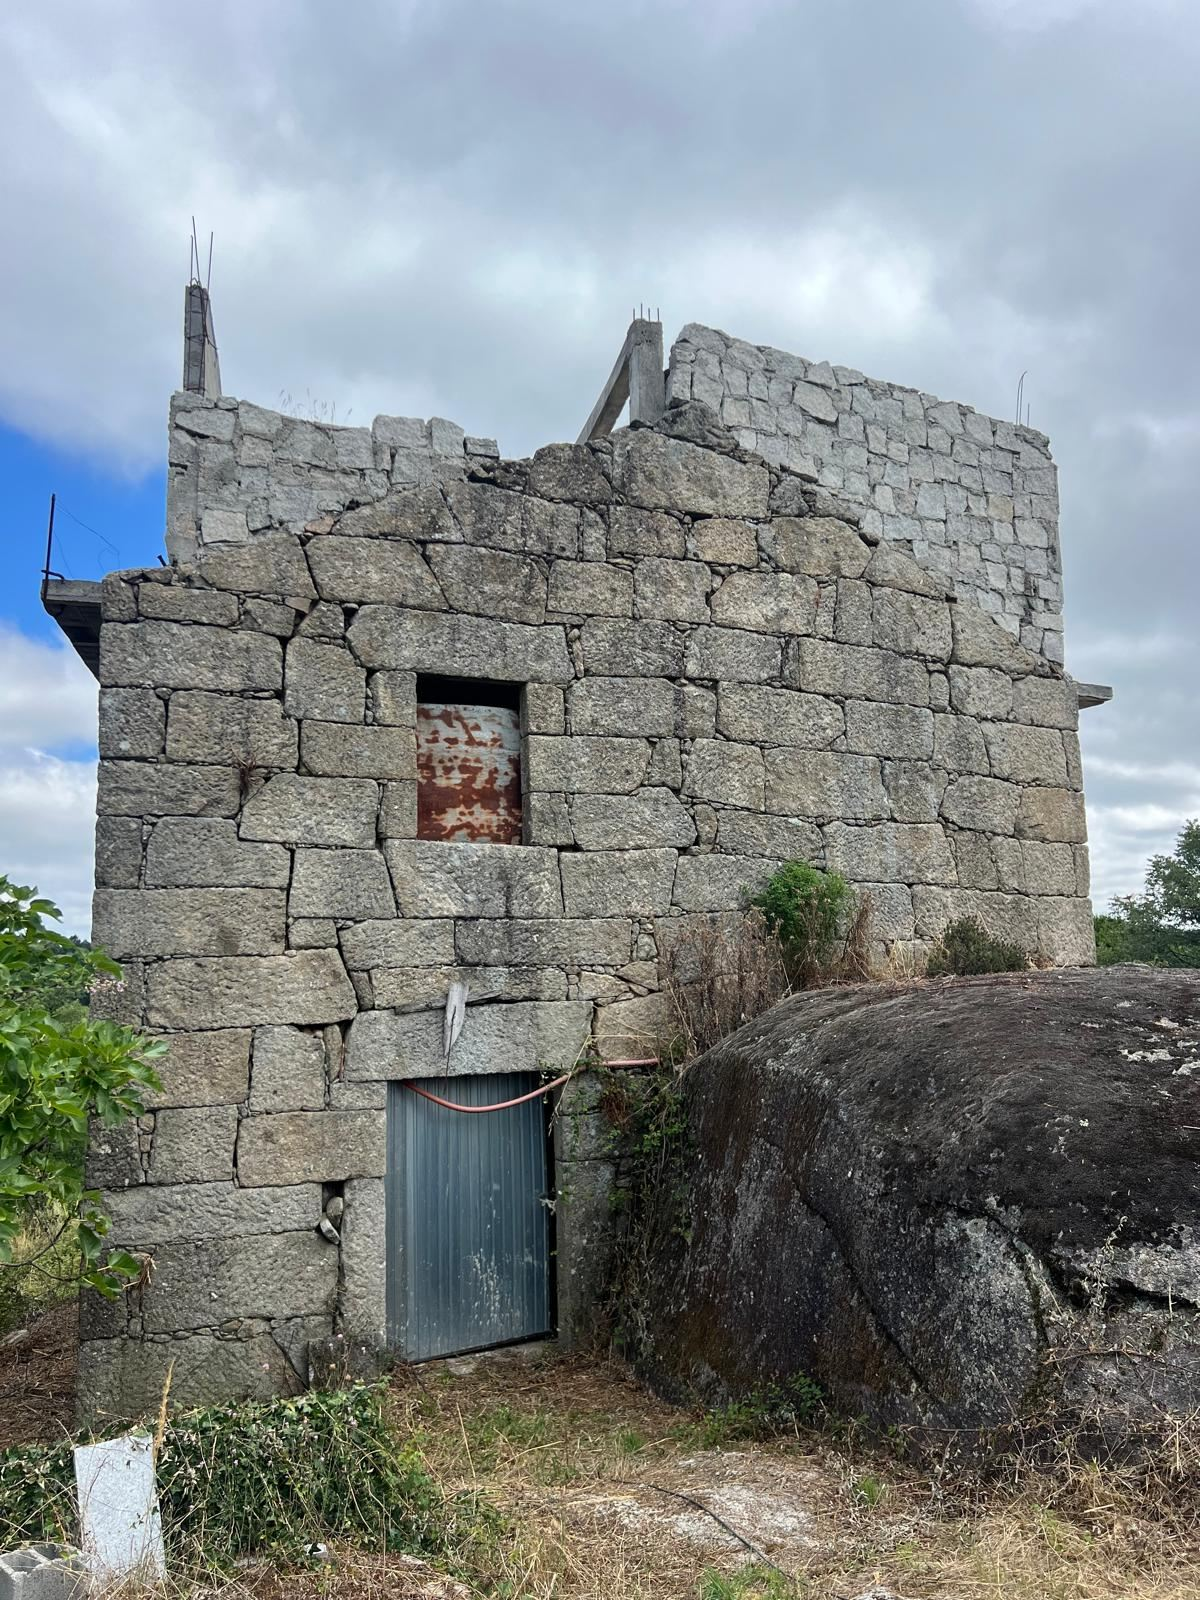
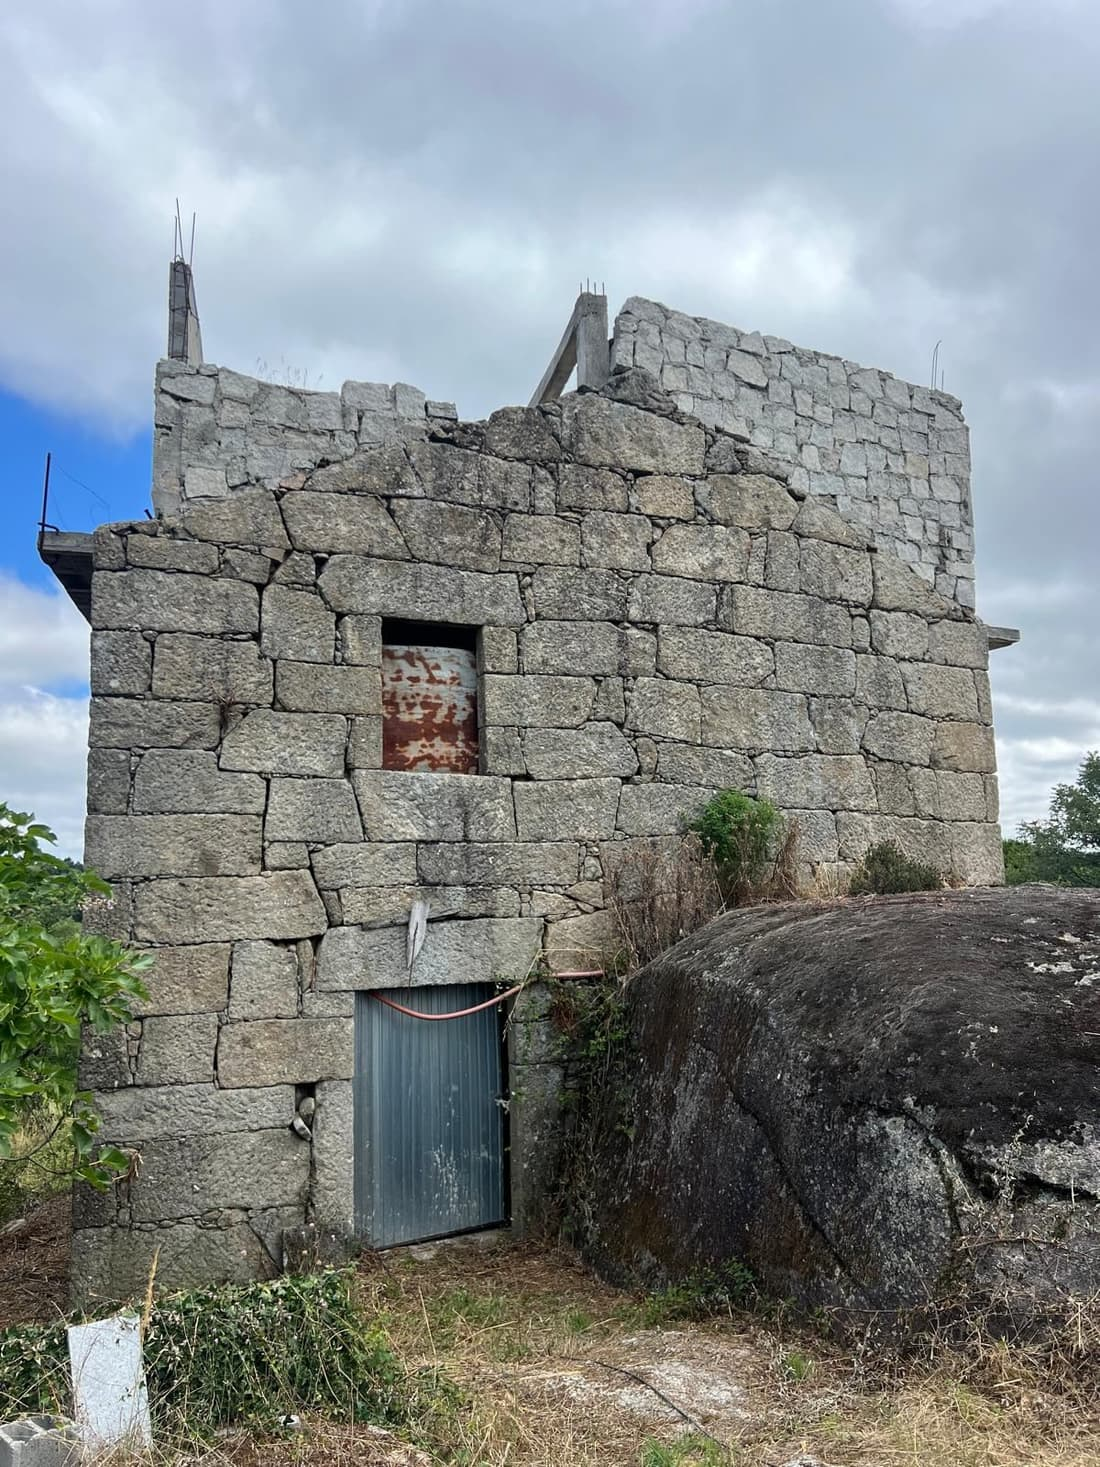
v10: technical SEO (title, description, link preview, structured data, sitemap, robots, lighter images)

diff --git a/index.html b/index.html
@@ -3,9 +3,24 @@
 <head>
 <meta charset="utf-8">
 <meta name="viewport" content="width=device-width, initial-scale=1">
-<title>The Made Real Blueprint · An 8-step course | The Life You Choose</title>
-<meta name="description" content="The Made Real Blueprint: an 8-step course for building a new life in Portugal, from the picture of a different life to a real one. Decide how you want to spend your time, and finish with your own blueprint. Founding member offer for the first 12 people. Two lives, built from the ground up: Bali, then Portugal.">
+<title>Choose it, build it, live it · The Made Real Blueprint</title>
+<meta name="description" content="Want a different life? Make a real change at home, or build a new one in Portugal or abroad. An 8-step course by Mwata, who built a new life abroad twice.">
 <link rel="icon" href="images/mark.svg" type="image/svg+xml">
+<link rel="canonical" href="https://maderealblueprint.com/">
+<link rel="apple-touch-icon" href="images/apple-touch-icon.png">
+<meta name="theme-color" content="#2C3B2F">
+<meta property="og:type" content="website">
+<meta property="og:site_name" content="The Life You Choose">
+<meta property="og:url" content="https://maderealblueprint.com/">
+<meta property="og:title" content="Choose it, build it, live it · The Made Real Blueprint">
+<meta property="og:description" content="An 8-step blueprint built from the experiences of someone who built a chosen life.">
+<meta property="og:image" content="https://maderealblueprint.com/images/og-image.jpg">
+<meta property="og:image:width" content="1200">
+<meta property="og:image:height" content="630">
+<meta property="og:image:alt" content="Raised vegetable beds on Mwata's land in Portugal, next to the title: Choose, build and live the life you want.">
+<meta property="og:locale" content="en_GB">
+<meta name="twitter:card" content="summary_large_image">
+<script type="application/ld+json">{"@context":"https://schema.org","@graph":[{"@type":"WebSite","@id":"https://maderealblueprint.com/#website","url":"https://maderealblueprint.com/","name":"The Made Real Blueprint","alternateName":"The Life You Choose","inLanguage":"en","publisher":{"@id":"https://maderealblueprint.com/#org"}},{"@type":"Organization","@id":"https://maderealblueprint.com/#org","name":"The Life You Choose","legalName":"Belgrave Management, Unipessoal Lda","url":"https://maderealblueprint.com/","logo":{"@type":"ImageObject","url":"https://maderealblueprint.com/images/logo-512.png","width":512,"height":512},"email":"info@maderealblueprint.com","sameAs":["https://www.instagram.com/the.life_you.choose/","https://www.facebook.com/profile.php?id=61595278371843"],"founder":{"@id":"https://maderealblueprint.com/#mwata"}},{"@type":"Person","@id":"https://maderealblueprint.com/#mwata","name":"Mwata Belgrave","jobTitle":"Founder","image":"https://maderealblueprint.com/images/mwata.jpg","worksFor":{"@id":"https://maderealblueprint.com/#org"}},{"@type":"WebPage","@id":"https://maderealblueprint.com/#webpage","url":"https://maderealblueprint.com/","name":"Choose it, build it, live it · The Made Real Blueprint","description":"Want a different life? Make a real change at home, or build a new one in Portugal or abroad. An 8-step course by Mwata, who built a new life abroad twice.","inLanguage":"en","isPartOf":{"@id":"https://maderealblueprint.com/#website"},"about":{"@id":"https://maderealblueprint.com/#org"},"author":{"@id":"https://maderealblueprint.com/#mwata"},"primaryImageOfPage":{"@type":"ImageObject","url":"https://maderealblueprint.com/images/og-image.jpg","width":1200,"height":630}}]}</script>
 <link rel="preload" href="fonts/newsreader-normal-latin.woff2" as="font" type="font/woff2" crossorigin>
 <link rel="preload" href="fonts/hankengrotesk-normal-latin.woff2" as="font" type="font/woff2" crossorigin>
 <link rel="stylesheet" href="fonts.css">
@@ -20,7 +35,7 @@
 *{box-sizing:border-box}
 html{scroll-behavior:smooth}
 body{margin:0;background:var(--sand);color:var(--granite);font-family:var(--sans);font-size:18px;line-height:1.6;-webkit-font-smoothing:antialiased}
-img{max-width:100%;display:block}
+img{max-width:100%;height:auto;display:block}
 a{color:var(--pine)}
 .wrap{max-width:1180px;margin:0 auto;padding:0 var(--gutter)}
 section{padding:clamp(64px,10vw,120px) 0;scroll-margin-top:64px}
@@ -477,7 +492,7 @@ section .wrap > :last-child{margin-bottom:0}
       <p class="descriptor">A practical course, written from my own experience of doing this fully myself: two lives, built from the ground up. Bali, then Portugal.</p>
     </div>
     <figure>
-      <img src="images/bali-volcano.jpg" alt="Mwata on a green ridge in Bali, looking out over a volcano rising above the morning mist." width="1200" height="1600">
+      <img fetchpriority="high" src="images/bali-volcano.jpg" alt="Mwata on a green ridge in Bali, looking out over a volcano rising above the morning mist." width="1100" height="1467">
       <figcaption class="cap">Exploring Bali, shortly after I arrived.</figcaption>
     </figure>
   </div>
@@ -777,19 +792,19 @@ section .wrap > :last-child{margin-bottom:0}
     </div>
     <div class="before-after">
       <figure>
-        <img src="images/ruin-before.jpg" alt="The granite main house in 2024: roofless, overgrown and in ruins, next to a large boulder." loading="lazy" width="1200" height="1600">
+        <img src="images/ruin-before.jpg" alt="The granite main house in 2024: roofless, overgrown and in ruins, next to a large boulder." loading="lazy" width="1100" height="1467">
         <figcaption><b>April 2024.</b> The main house, overgrown and in ruins.</figcaption>
       </figure>
       <figure>
-        <img src="images/ruin-after.jpg" alt="The same granite house in 2026: fully renovated, with a new dark roof, under a deep blue sky." loading="lazy" width="1200" height="1600">
+        <img src="images/ruin-after.jpg" alt="The same granite house in 2026: fully renovated, with a new dark roof, under a deep blue sky." loading="lazy" width="1100" height="1467">
         <figcaption><b>April 2026.</b> The house, fully renovated and made self-sustainable with solar energy.</figcaption>
       </figure>
     </div>
     <div class="photo-row">
-      <img src="images/cabin.jpg" alt="A timber cabin with a terracotta roof behind a small pool, with olive trees." loading="lazy">
-      <img src="images/outdoor.jpg" alt="An outdoor area under pine trees, with wooden pergolas, a deck and a fire bowl between granite boulders." loading="lazy">
-      <img src="images/garden.jpg" alt="Raised vegetable beds in the new garden." loading="lazy">
-      <img src="images/harvest-fruit.jpg" alt="A bowl of fresh blueberries, strawberries and cherries held up in front of the view." loading="lazy">
+      <img src="images/cabin.jpg" alt="A timber cabin with a terracotta roof behind a small pool, with olive trees." loading="lazy" width="640" height="853">
+      <img src="images/outdoor.jpg" alt="An outdoor area under pine trees, with wooden pergolas, a deck and a fire bowl between granite boulders." loading="lazy" width="640" height="853">
+      <img src="images/garden.jpg" alt="Raised vegetable beds in the new garden." loading="lazy" width="640" height="853">
+      <img src="images/harvest-fruit.jpg" alt="A bowl of fresh blueberries, strawberries and cherries held up in front of the view." loading="lazy" width="640" height="853">
     </div>
     <p class="cap">My own journey: still a work in progress, but the idea from two years ago is now real.</p>
 
@@ -805,10 +820,10 @@ section .wrap > :last-child{margin-bottom:0}
           <li class="now"><span class="when">Today</span><h3>Living it</h3><p>I live on my land in rural central Portugal, surrounded by nature, with enough projects to keep me creative for years. It is not finished, and it does not have to be. It is real.</p></li>
         </ol>
         <div class="story-photos">
-          <img class="a" src="images/nl-house.jpg" alt="Aerial view of Mwata's former house in the Netherlands, with a curved thatched roof and a garden." loading="lazy">
+          <img class="a" src="images/nl-house.jpg" alt="Aerial view of Mwata's former house in the Netherlands, with a curved thatched roof and a garden." loading="lazy" width="1100" height="618">
           <div class="pair">
-            <img src="images/bali-desk.jpg" alt="A laptop and building floor plans on a wooden desk in Bali." loading="lazy">
-            <img src="images/campervan.jpg" alt="A campervan parked on a cliff above the Atlantic Ocean in Portugal." loading="lazy">
+            <img src="images/bali-desk.jpg" alt="A laptop and building floor plans on a wooden desk in Bali." loading="lazy" width="640" height="1053">
+            <img src="images/campervan.jpg" alt="A campervan parked on a cliff above the Atlantic Ocean in Portugal." loading="lazy" width="640" height="480">
           </div>
           <p class="cap">My house in the Netherlands, sold in 2020 · inspection work in Bali · the campervan trip through Portugal.</p>
         </div>
